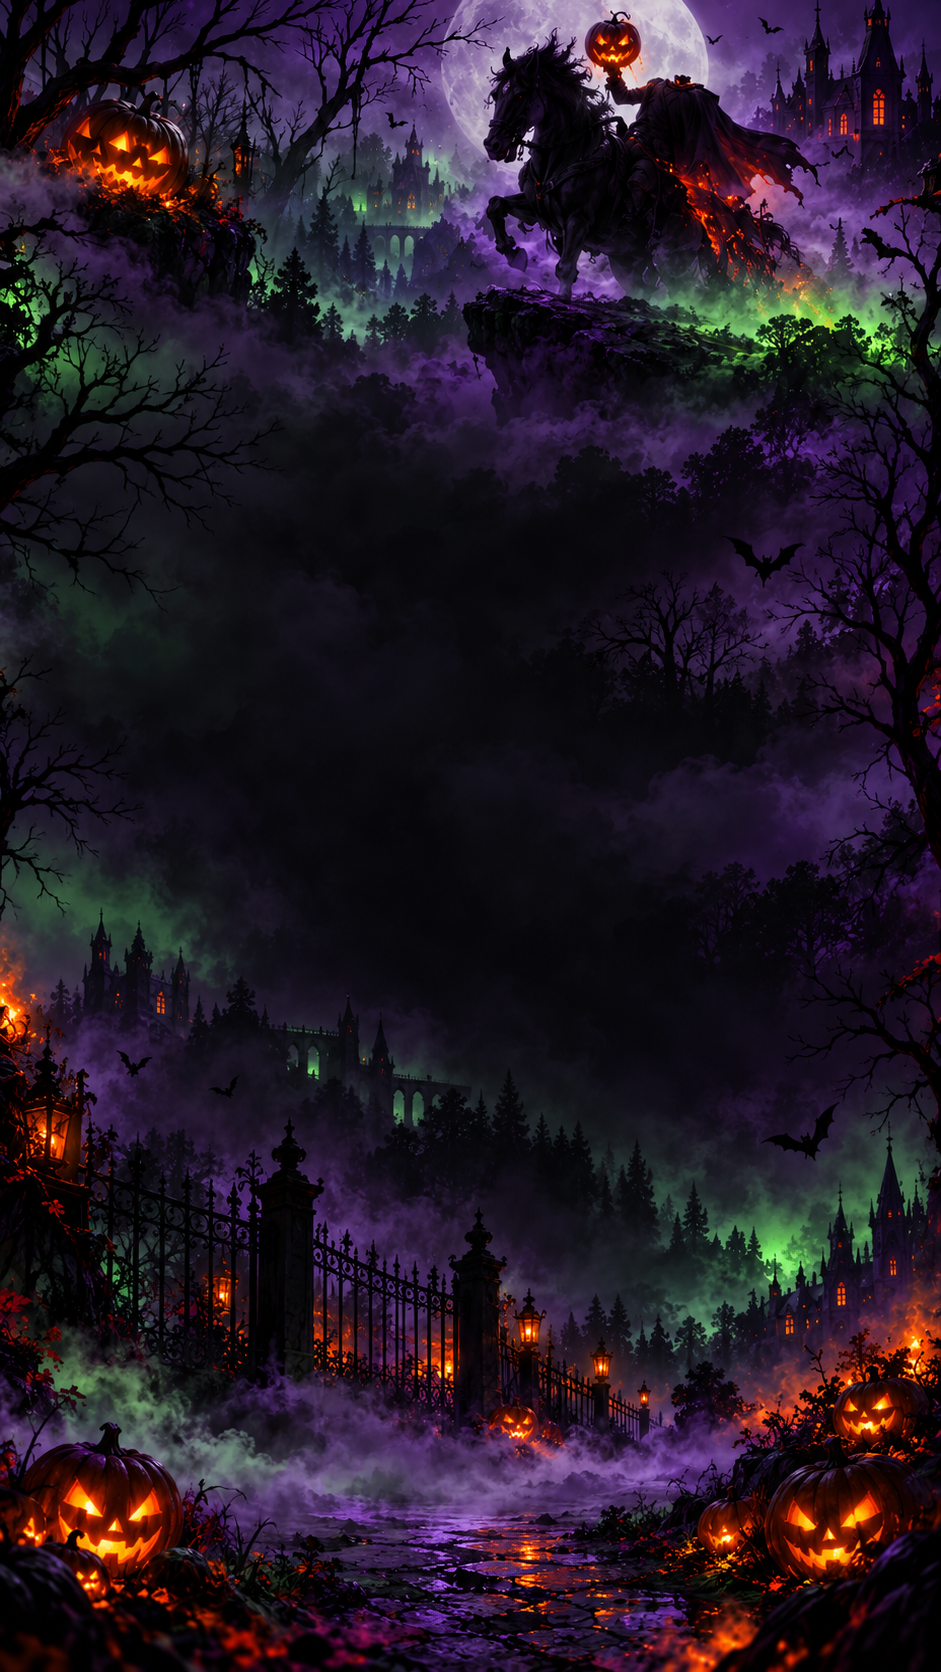
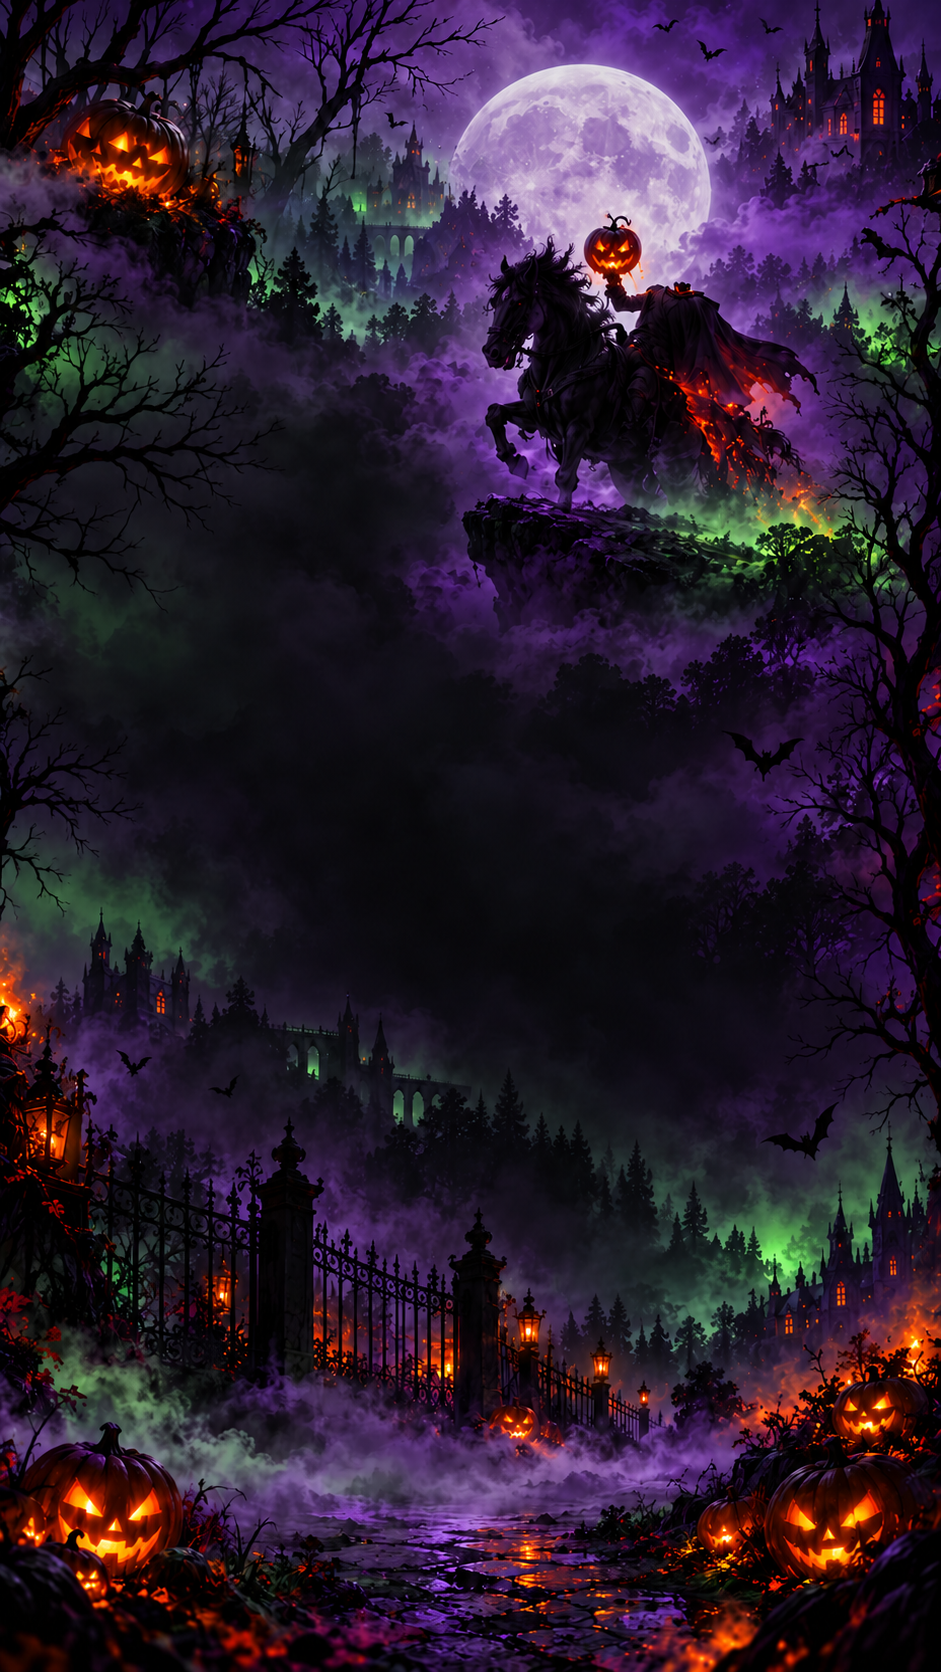
Add Halloween 2026 brand and chat artwork

diff --git a/src/content/ui-shell.js b/src/content/ui-shell.js
@@ -83,6 +83,7 @@
     .slink-alert-body { display:grid; gap:7px; }
     :host(:not([data-slink-theme="slink-dark"])) .window { border-color:var(--slink-border); background:var(--slink-panel-bg); box-shadow:-5px 0 20px var(--slink-glow-left),5px 0 20px var(--slink-glow-right),0 10px 28px var(--slink-shadow); }
     :host(:not([data-slink-theme="slink-dark"])) .mark { background:var(--slink-mark-bg); color:#050607; box-shadow:inset 0 0 0 1px var(--slink-metal),0 0 12px var(--slink-glow-right); text-shadow:0 1px rgba(255,255,255,.45); }
+    :host([data-slink-brand-icon="true"]) .mark { background:center/contain no-repeat var(--slink-theme-brand-icon)!important; color:transparent; box-shadow:none; text-shadow:none; }
     :host(:not([data-slink-theme="slink-dark"])) .tab[aria-selected="true"] { background:var(--slink-selected-bg); box-shadow:0 0 12px var(--slink-glow-right); }
     :host(:not([data-slink-theme="slink-dark"])) .actions button { background:var(--slink-button-bg); }
     :host([data-slink-ornament="coil"]) .module-head strong::before { display:inline-block; width:20px; height:15px; margin-right:6px; vertical-align:-3px; background:repeating-radial-gradient(ellipse at center,transparent 0 2px,var(--slink-metal) 3px 4px,transparent 5px 7px); filter:drop-shadow(0 0 4px var(--slink-glow-right)); content:""; }
@@ -141,12 +142,10 @@
       host.dataset.slinkOrnament = theme.ornament || 'none';
       host.dataset.slinkImageTheme = theme.assets?.background ? 'true' : 'false';
       host.dataset.slinkIconTheme = theme.assets?.iconSheet ? 'true' : 'false';
+      host.dataset.slinkBrandIcon = theme.assets?.brandIcon ? 'true' : 'false';
       themeStyle.textContent = `:host{${SLINK.core.themes.cssVariables(theme.id, permissions)}}`;
       chatButtonTheme = theme;
-      if (chatButton) {
-        chatButton.style.setProperty('--slink-chat-button', theme.tokens?.['--slink-accent'] || '#2f74ad');
-        chatButton.style.setProperty('--slink-chat-icon', theme.tokens?.['--slink-text'] || '#fff');
-      }
+      applyChatButtonTheme(chatButton, theme);
       return theme;
     }
     setTheme(options.themeId || SLINK.core.themes.DEFAULT_THEME_ID, options.permissions || {});
@@ -186,12 +185,20 @@
     let navigationWriteQueue = Promise.resolve();
     const bubbleAlertSources = new Map();
 
+    function applyChatButtonTheme(button, theme) {
+      if (!button || !theme) return;
+      button.style.setProperty('--slink-chat-button', theme.tokens?.['--slink-accent'] || '#2f74ad');
+      button.style.setProperty('--slink-chat-icon', theme.tokens?.['--slink-text'] || '#fff');
+      button.style.setProperty('--slink-theme-chat-icon', SLINK.core.themes.assetVariables(theme)['--slink-theme-chat-icon'] || 'none');
+      button.dataset.slinkThemeChat = theme.assets?.chatIcon ? 'true' : 'false';
+    }
+
     function installChatButtonStyle() {
       const id = 'slink-extension-chat-button-style';
       if (document.getElementById(id)) return;
       const style = document.createElement('style');
       style.id = id;
-      style.textContent = `#slink_extension_chat_button{position:relative;background:var(--slink-chat-button,#2f74ad)!important;background-color:var(--slink-chat-button,#2f74ad)!important;border-color:var(--slink-chat-icon,#fff)!important;color:var(--slink-chat-icon,#fff)!important}#slink_extension_chat_button .slink-chat-coil{display:block;width:24px;height:24px;filter:drop-shadow(0 0 3px var(--slink-chat-icon,#fff));pointer-events:none}#slink_extension_chat_button .slink-chat-coil ellipse{fill:none;stroke:currentColor;stroke-width:1.8}#slink_extension_chat_button[hidden],#slink_extension_chat_button .messageCount___EWpiR[hidden]{display:none!important}`;
+      style.textContent = `#slink_extension_chat_button{position:relative;background:var(--slink-chat-button,#2f74ad)!important;background-color:var(--slink-chat-button,#2f74ad)!important;border-color:var(--slink-chat-icon,#fff)!important;color:var(--slink-chat-icon,#fff)!important}#slink_extension_chat_button .slink-chat-coil{display:block;width:24px;height:24px;filter:drop-shadow(0 0 3px var(--slink-chat-icon,#fff));pointer-events:none}#slink_extension_chat_button .slink-chat-coil ellipse{fill:none;stroke:currentColor;stroke-width:1.8}#slink_extension_chat_button .slink-chat-theme-icon{display:none;width:26px;height:26px;background:center/contain no-repeat var(--slink-theme-chat-icon);filter:drop-shadow(0 0 3px var(--slink-chat-icon,#fff));pointer-events:none}#slink_extension_chat_button[data-slink-theme-chat="true"] .slink-chat-coil{display:none}#slink_extension_chat_button[data-slink-theme-chat="true"] .slink-chat-theme-icon{display:block}#slink_extension_chat_button[hidden],#slink_extension_chat_button .messageCount___EWpiR[hidden]{display:none!important}`;
       (document.head || document.documentElement).appendChild(style);
     }
 
@@ -202,7 +209,7 @@
       button.type = 'button';
       button.title = 'SLINK';
       button.dataset.preventFlyoutSwipe = 'true';
-      button.innerHTML = '<svg class="slink-chat-coil" viewBox="0 0 24 24" aria-hidden="true"><ellipse cx="12" cy="5" rx="7.5" ry="3"></ellipse><ellipse cx="12" cy="9.5" rx="7.5" ry="3"></ellipse><ellipse cx="12" cy="14" rx="7.5" ry="3"></ellipse><ellipse cx="12" cy="18.5" rx="7.5" ry="3"></ellipse></svg><div class="messageCount___EWpiR" hidden><span class="root___XpplE headingH1___VK9XQ root____FDYX oneDigit___FJ3vn" style="color: white;">0</span></div>';
+      button.innerHTML = '<span class="slink-chat-theme-icon" aria-hidden="true"></span><svg class="slink-chat-coil" viewBox="0 0 24 24" aria-hidden="true"><ellipse cx="12" cy="5" rx="7.5" ry="3"></ellipse><ellipse cx="12" cy="9.5" rx="7.5" ry="3"></ellipse><ellipse cx="12" cy="14" rx="7.5" ry="3"></ellipse><ellipse cx="12" cy="18.5" rx="7.5" ry="3"></ellipse></svg><div class="messageCount___EWpiR" hidden><span class="root___XpplE headingH1___VK9XQ root____FDYX oneDigit___FJ3vn" style="color: white;">0</span></div>';
       button.addEventListener('click', () => void setCollapsed(false));
       return button;
     }
@@ -227,8 +234,7 @@
       chatButton.className = peopleButton?.className || settingsButton.className;
       if (chatButton.parentElement !== row || chatButton.nextElementSibling !== settingsButton) row.insertBefore(chatButton, settingsButton);
       const theme = chatButtonTheme || SLINK.core.themes.get();
-      chatButton.style.setProperty('--slink-chat-button', theme.tokens?.['--slink-accent'] || '#2f74ad');
-      chatButton.style.setProperty('--slink-chat-icon', theme.tokens?.['--slink-text'] || '#fff');
+      applyChatButtonTheme(chatButton, theme);
       updateChatButtonAlertCount();
     }
 

diff --git a/src/core/themes.js b/src/core/themes.js
@@ -9,12 +9,16 @@
   const CATALOG_STORAGE_KEY = 'themes.catalog.v1';
   const ASSET_VARIABLES = Object.freeze({
     background:'--slink-theme-background-image',
-    iconSheet:'--slink-theme-icon-sheet'
+    iconSheet:'--slink-theme-icon-sheet',
+    brandIcon:'--slink-theme-brand-icon',
+    chatIcon:'--slink-theme-chat-icon'
   });
   const ASSET_ORIGIN = 'https://raw.githubusercontent.com/Considious/SLINK-Cloudflare-Services/main/themes/assets/';
   const PACKAGED_ASSET_FILES = new Set([
     'halloween-2026-background.png',
-    'halloween-2026-icons.png'
+    'halloween-2026-icons.png',
+    'halloween-2026-brand.png',
+    'halloween-2026-chat.png'
   ]);
   const TOKEN_NAMES = new Set([
     '--slink-bg', '--slink-bg-raised', '--slink-bg-control', '--slink-surface', '--slink-card',
@@ -74,14 +78,18 @@
   }
 
   function normalizeAssets(entry, themeId) {
-    if (entry?.assets === undefined || entry?.assets === null) return Object.freeze({ background:'', iconSheet:'', packaged:false });
+    if (entry?.assets === undefined || entry?.assets === null) return Object.freeze({ background:'', iconSheet:'', brandIcon:'', chatIcon:'', packaged:false });
     if (typeof entry.assets !== 'object' || Array.isArray(entry.assets)) throw new Error(`Theme ${themeId} has invalid assets.`);
     const background = validateAssetUrl(entry.assets.background, themeId, 'background');
     const iconSheet = validateAssetUrl(entry.assets.iconSheet, themeId, 'icon sheet');
-    const assetFiles = [background, iconSheet].filter(Boolean).map(value => new URL(value).pathname.split('/').pop());
+    const brandIcon = validateAssetUrl(entry.assets.brandIcon, themeId, 'brand icon');
+    const chatIcon = validateAssetUrl(entry.assets.chatIcon, themeId, 'chat icon');
+    const assetFiles = [background, iconSheet, brandIcon, chatIcon].filter(Boolean).map(value => new URL(value).pathname.split('/').pop());
     return Object.freeze({
       background,
       iconSheet,
+      brandIcon,
+      chatIcon,
       // Older Worker builds omitted the packaged flag. Recognize only the
       // reviewed assets that are actually shipped in this extension package.
       packaged:entry.assets.packaged === true || (assetFiles.length > 0 && assetFiles.every(file => PACKAGED_ASSET_FILES.has(file)))
@@ -345,6 +353,7 @@
     element.dataset.slinkOrnament = theme.ornament || 'none';
     element.dataset.slinkImageTheme = theme.assets?.background ? 'true' : 'false';
     element.dataset.slinkIconTheme = theme.assets?.iconSheet ? 'true' : 'false';
+    element.dataset.slinkBrandIcon = theme.assets?.brandIcon ? 'true' : 'false';
     for (const [name, value] of Object.entries(theme.tokens)) element.style.setProperty(name, value);
     for (const [name, value] of Object.entries(assetVariables(theme))) element.style.setProperty(name, value);
     return theme;

diff --git a/src/dashboard/dashboard.css b/src/dashboard/dashboard.css
@@ -90,3 +90,5 @@ input,select{border-color:var(--slink-border-soft);background:var(--slink-bg);co
 @media(max-width:520px){:root[data-slink-image-theme="true"] body{background-attachment:scroll}:root[data-slink-icon-theme="true"] .dashboard-tab::before,:root[data-slink-icon-theme="true"] .quality-tab::before{width:17px;height:17px;flex-basis:17px}}
 
 
+
+:root[data-slink-brand-icon="true"] .brand>span{background:center/contain no-repeat var(--slink-theme-brand-icon)!important;color:transparent;box-shadow:none;text-shadow:none}

diff --git a/CHANGELOG.md b/CHANGELOG.md
@@ -1,3 +1,10 @@
+## 0.18.96 - 2026-10-22
+
+- Replace the Halloween 2026 background with the approved composition that keeps the Headless Horseman below the top banner.
+- Add the approved carved `S L` jack-o'-lantern as the Halloween brand mark.
+- Add the approved Slinky-carved jack-o'-lantern to the optional Torn chat-row control while retaining the standard coil for other themes.
+- Extend the validated live-theme asset pipeline with independent brand and chat icons.
+
 ## 0.18.95 - 2026-10-22
 
 - Color the optional Torn chat-row SLINK button from the active theme and render the Slinky in the theme's contrasting text color.
